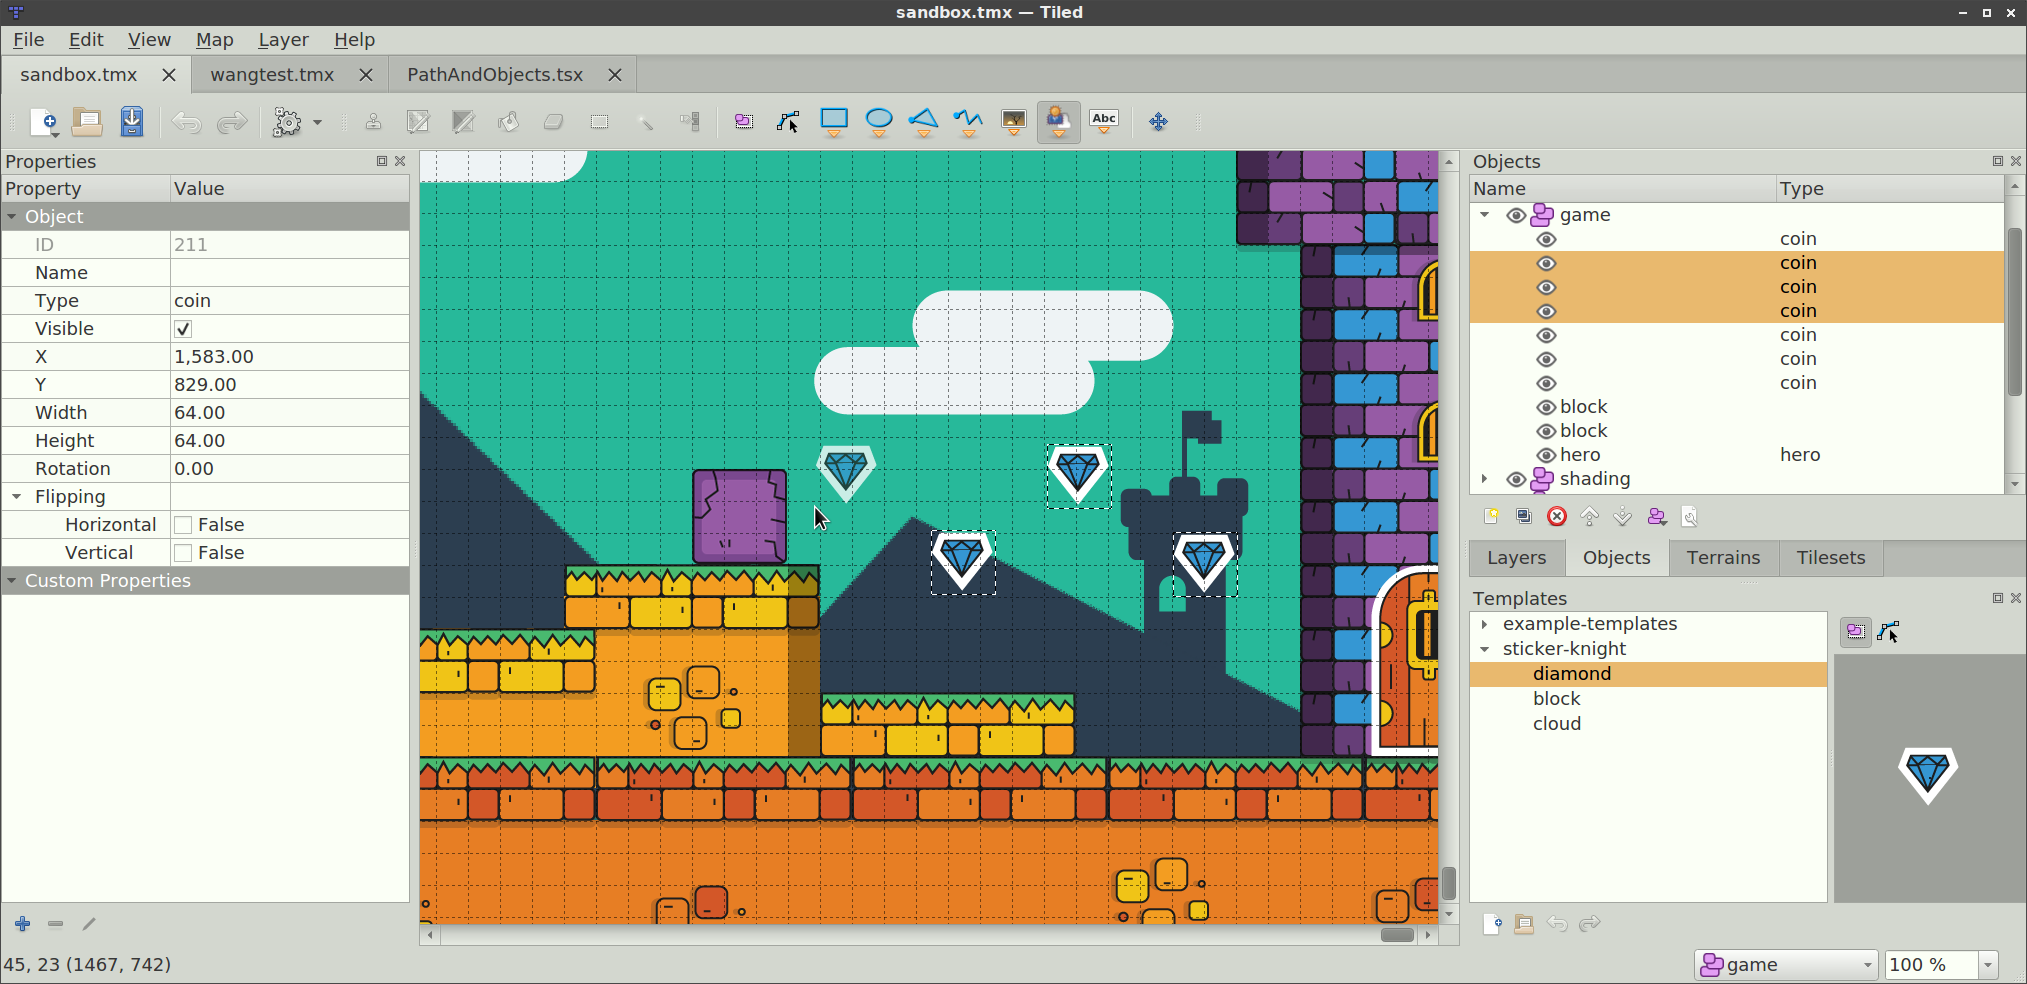
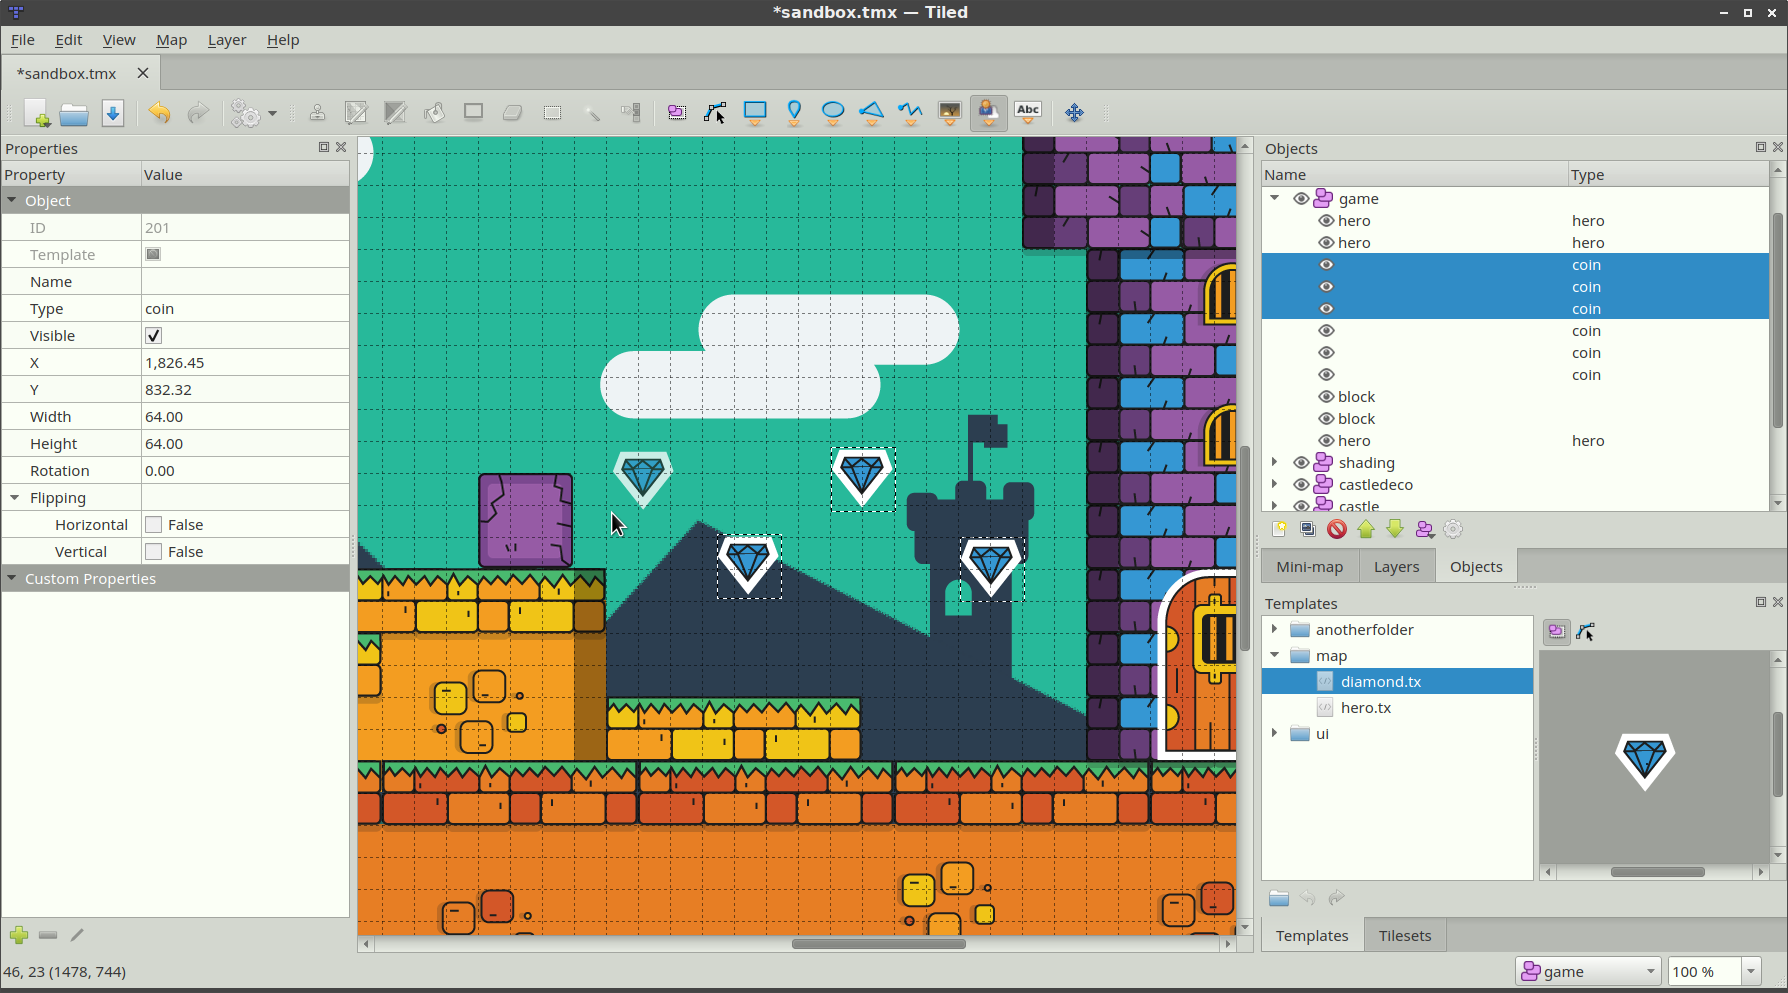
docs: Updated with recent changes to object templates
Animations not updated yet, will wait with that until things are
finalized for release.

diff --git a/docs/reference/tmx-map-format.rst b/docs/reference/tmx-map-format.rst
@@ -72,8 +72,7 @@ rendered by Tiled.
 
 Can contain: :ref:`tmx-properties`, :ref:`tmx-tileset`,
 :ref:`tmx-layer`, :ref:`tmx-objectgroup`,
-:ref:`tmx-imagelayer`, :ref:`tmx-group` (since 1.0),
-:ref:`tmx-templategroup` (since 1.1)
+:ref:`tmx-imagelayer`, :ref:`tmx-group` (since 1.0)
 
 .. _tmx-tileset:
 
@@ -468,7 +467,7 @@ Can contain: :ref:`tmx-properties`, :ref:`tmx-object`
 -  **gid:** A reference to a tile (optional).
 -  **visible:** Whether the object is shown (1) or hidden (0). Defaults to
    1.
--  **tid:** A reference to a template (optional).
+-  **template:** A reference to a :ref:`template file <tmx-template-files>` (optional).
 
 While tile layers are very suitable for anything repetitive aligned to
 the tile grid, sometimes you want to annotate your map with other
@@ -484,9 +483,10 @@ of the tile with that global ID. The image alignment currently depends
 on the map orientation. In orthogonal orientation it's aligned to the
 bottom-left while in isometric it's aligned to the bottom-center.
 
-When the object has a ``tid`` set, it will borrow all the properties from
-the specified template, properties saved with the object will have higher
-priority, i.e. they will override the template properties.
+When the object has a ``template`` set, it will borrow all the
+properties from the specified template, properties saved with the object
+will have higher priority, i.e. they will override the template
+properties.
 
 Can contain: :ref:`tmx-properties`, :ref:`tmx-ellipse` (since
 0.9), :ref:`tmx-polygon`, :ref:`tmx-polyline`, :ref:`tmx-text`
@@ -640,73 +640,34 @@ element rather than as the ``value`` attribute. It is possible that a
 future version of the TMX format will switch to always saving property
 values inside the element rather than as an attribute.
 
-.. _tmx-templategroup:
+.. _tmx-template-files:
 
-<templategroup>
----------------
+Template Files
+--------------
 
-Unlike tilesets, embedding a template group inside a map is not supported, so the map must reference the external template group.
-
-Usage Inside the Map
-~~~~~~~~~~~~~~~~~~~~
-
-   .. code:: xml
-
-      <templategroup firsttid="1" source="platforms.tgx"/>
-
--  **firsttid:** the first ID of this template group (this ID maps to the
-   first template in this templategroup).
--  **source:** The reference to the template group.
-
-Objects inside the map can be template instances by referring to a specific
-template inside a template group:
-
-   .. code:: xml
-
-      <object id="1363" tid="14" x="20" y="55"/>
-
-.. _templategroup-format:
-
-The Template Group Format
-~~~~~~~~~~~~~~~~~~~~~~~~~
-
--  **name:** The name of the template group.
--  **nexttemplateid:** Stores the next available ID for new templates. This
-   number is stored to prevent reuse of the same ID after templates have
-   been removed.
-
-Template groups are saved as external files, and are referenced by the map. A
-template group can contain multiple :ref:`tileset <tmx-tileset>` elements
-that point to external tilesets.
-
-Can contain: :ref:`tmx-tileset`, :ref:`tmx-template`
+Templates are saved in their own file, and are referenced by
+:ref:`objects <tmx-object>` that are template instances.
 
 .. _tmx-template:
 
 <template>
-^^^^^^^^^^
+~~~~~~~~~~
 
--  **name:** The name of the template.
--  **id:** Unique ID for the template inside the template group.
+The template root element contains the saved :ref:`map object <tmx-object>`
+and a :ref:`tileset <tmx-tileset>` element that points to an external
+tileset, if the object is a tile object.
 
-Each template element contains the saved :ref:`map object <tmx-object>`.
-
-Example of a template group file:
+Example of a template file:
 
    .. code:: xml
 
     <?xml version="1.0" encoding="UTF-8"?>
-    <templategroup name="Plants" nexttemplateid="2">
+    <template>
      <tileset firstgid="1" source="desert.tsx"/>
-     <template name="cactus" id="0">
-      <object gid="31" width="81" height="101"/>
-     </template>
-     <template name="tree" id="1">
-      <object gid="38" width="128" height="96"/>
-     </template>
-    </templategroup>
+     <object name="cactus" gid="31" width="81" height="101"/>
+    </template>
 
-Can contain: :ref:`tmx-object`
+Can contain: :ref:`tmx-tileset`, :ref:`tmx-object`
 
 --------------
 

diff --git a/docs/manual/using-templates.rst b/docs/manual/using-templates.rst
@@ -10,9 +10,9 @@ instantiated elsewhere as objects that inherit the template's properties. This
 can save a lot of tedious work of setting up the object type and properties, or
 even just finding the right tile in the tileset.
 
-Templates are organized into template groups. Template groups can be part of
-your project and are referred to by the map. You can save them in either XML
-or JSON format, just like map and tileset files.
+Each template is stored in its own file and they can be organized in
+directories. You can save templates in either XML or JSON format, just
+like map and tileset files.
 
 .. figure:: images/templates/templates-overview.png
    :alt: Templates Overview
@@ -21,28 +21,25 @@ Creating Templates
 ------------------
 
 A template can be created by right clicking on any object in the map and
-selecting "Save as Template". You will be asked to choose the name and the
-template group to save the template to. If the object already has a name the
-name field will be auto-filled with it.
-
-Template groups can be created from the New Template Group button in the
-Templates view or from the New Template dialog.
+selecting "Save As Template". You will be asked to choose the file name
+and the format to save the template in. If the object already has a name
+the suggested file name will be based on that.
 
 .. figure:: images/templates/creating-templates.gif
    :alt: New Template Dialog
 
 .. note:: You can't create a template from a tile object that uses a
-   tile from an embedded tileset, because the
-   :ref:`template group format <templategroup-format>` does not support
+   tile from an embedded tileset, because
+   :ref:`template files <tmx-template-files>` do not support
    referring to such tilesets.
 
 The Templates View
 ------------------
 
-Working with templates is done through the Templates view. The Templates view
-is divided into two parts, the left part is a tree view that shows the loaded
-template groups and their templates, the right part shows a preview of the
-selected template.
+Working with templates is done through the Templates view. The Templates
+view is divided into two parts: the left part is a tree view that shows
+the template files in a selected directory and the right part shows a
+preview of the selected template.
 
 .. _creating-template-instances:
 
@@ -65,7 +62,7 @@ Editing Templates
 
 Selecting a template will show an editable preview in the Templates view and
 will show the template's properties in the Properties view where they can be
-edited.
+edited. Changes to the template are saved automatically.
 
 All template instances are linked to their template, so all edits will be
 immediately reflected upon all the template instances on the map.
@@ -90,5 +87,5 @@ To detach an instance, right click on it and select *Detach*.
     - Resetting overridden properties individually (`#1725 <https://github.com/bjorn/tiled/issues/1725>`__).
     - Locking template properties (`#1726 <https://github.com/bjorn/tiled/issues/1726>`__).
     - Handling wrong file paths (`#1732 <https://github.com/bjorn/tiled/issues/1732>`__).
-    - Managing template groups, e.g. removing a template or a template group
-      (`#1723 <https://github.com/bjorn/tiled/issues/1723>`__, `#1724 <https://github.com/bjorn/tiled/issues/1724>`__).
+    - Managing the templates folder, e.g. moving, renaming or deleting a template or a sub-folder
+      (`#1723 <https://github.com/bjorn/tiled/issues/1723>`__).

diff --git a/docs/reference/tmx-changelog.rst b/docs/reference/tmx-changelog.rst
@@ -13,19 +13,12 @@ Tiled 1.1
    ``height`` attributes.
 
 -  :doc:`Templates </manual/using-templates>` were added, a
-   :ref:`template group <tmx-templategroup>` is an external file
-   referenced by maps:
+   template is an :ref:`external file <tmx-template-files>` referenced
+   by template instance objects:
 
    .. code:: xml
 
-      <templategroup firsttid="1" source="platforms.tgx"/>
-
--  An object can be a template instance, by referring to a template by a
-   template id (the :ref:`tid attribute <tmx-object>`):
-
-   .. code:: xml
-
-      <object id="1363" tid="14" x="20" y="55"/>
+      <object id="3" template="diamond.tx" x="200" y="100"/>
 
 -  Tilesets can now contain :doc:`Wang tiles </manual/using-wang-tiles>`.
    They are saved in the new :ref:`tmx-wangsets` element.
